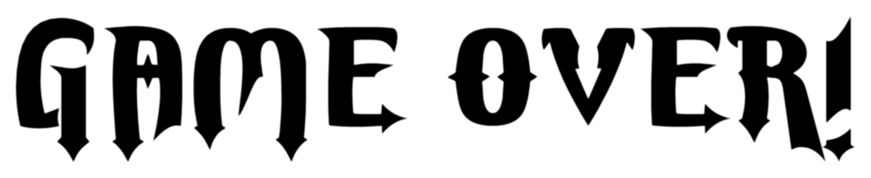
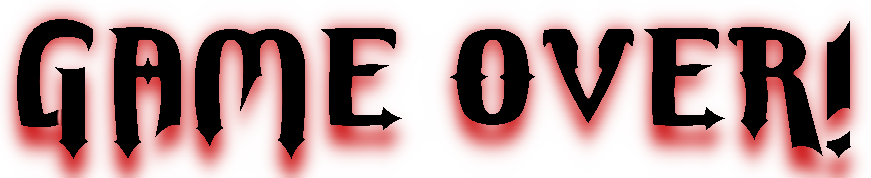
updated assets and bug fix

diff --git a/android/assets/PrototypeMap/completeTileset.tsx b/android/assets/PrototypeMap/completeTileset.tsx
@@ -1,24 +1,4 @@
 <?xml version="1.0" encoding="UTF-8"?>
-<tileset version="1.2" tiledversion="1.3.1" name="2tiles" tilewidth="100" tileheight="100" tilecount="10" columns="5">
- <image source="D:/DocumentsOne/GameArt/Prototype/prototypePngTileset.png" width="500" height="200"/>
- <tile id="0">
-  <properties>
-   <property name="isWall" type="bool" value="false"/>
-  </properties>
- </tile>
- <tile id="1">
-  <properties>
-   <property name="isWall " type="bool" value="true"/>
-  </properties>
- </tile>
- <tile id="2">
-  <properties>
-   <property name="isWall" type="bool" value="false"/>
-  </properties>
- </tile>
- <tile id="5">
-  <properties>
-   <property name="isWall" type="bool" value="true"/>
-  </properties>
- </tile>
+<tileset version="1.2" tiledversion="1.3.1" name="completeTileset" tilewidth="100" tileheight="100" tilecount="10" columns="5">
+ <image source="../CompleteTileset.png" width="500" height="200"/>
 </tileset>

diff --git a/android/assets/completeTileset.tsx b/android/assets/completeTileset.tsx
@@ -23,12 +23,7 @@
  </tile>
  <tile id="6">
   <objectgroup draworder="index" id="2">
-   <object id="1" x="45.0909" y="10.7273">
-    <polygon points="0,0 -11.4545,13.2727 -11.8182,29.2727 -9.45455,30.9091 -22.9091,60.7273 -22.1818,79.2727 33.6364,78.3636 32.7273,60 19.0909,27.8182 21.2727,22 18,3.09091"/>
-   </object>
-   <object id="2" x="50" y="55">
-    <point/>
-   </object>
+   <object id="3" x="2" y="0" width="99" height="99"/>
   </objectgroup>
  </tile>
  <tile id="7">

diff --git a/core/src/com/project/mazegame/screens/GameScreen.java b/core/src/com/project/mazegame/screens/GameScreen.java
@@ -60,7 +60,7 @@ public class GameScreen implements Screen {
     private Texture overlay;
     
     private float timer;
-    private float worldTimer;
+    public float worldTimer;
     
     private Player player2;
     
@@ -70,6 +70,7 @@ public class GameScreen implements Screen {
     private final int EXIT_HEIGHT = 20;
     
     private float initialisedShieldTime;
+    private float initialisedPotionTime;
    
     public static ArrayList<Item> mapItems = new ArrayList<Item>();
 
@@ -77,15 +78,15 @@ public class GameScreen implements Screen {
     
     private int tempMapItemssize;
     
-    int w;
-    int h;
+    int overlayWidth;
+    int overlayHeight;
     
     public GameScreen(MazeGame game) {
         this.game = game;
         inputHandler = new InputHandler();
         
         timer = 0;
-        worldTimer = 50;
+        worldTimer = 60;
 
         tileMap = new TmxMapLoader().load("prototypeMap.tmx");
         tileMapRenderer = new OrthogonalTiledMapRenderer(tileMap);
@@ -114,8 +115,8 @@ public class GameScreen implements Screen {
         damagingPotionTexture = new Texture("Potion3.png");
         overlay = new Texture("circularOverlay.png");
         
-        w = overlay.getWidth();
-        h = overlay.getHeight();
+        overlayWidth = overlay.getWidth();
+        overlayHeight = overlay.getHeight();
     }
     
     @Override
@@ -128,22 +129,14 @@ public class GameScreen implements Screen {
         player.initialPosition();
         
     }
-    
+    int iconSize = 30;
     @Override
     public void render(float delta) { //method repeats a lot
     	updateTime(delta);
     	removeShield();
+    	playerDamaging();
     	
-    	//if timer runs out 
-    	if(worldTimer < 0) {
-    	   w -= 5;
-    	   h -= 5;
-    	  
-    	   if(worldTimer < -5) {
-    		   this.dispose();
-    		   game.setScreen(new EndScreen(this.game));
-    	   }
-    	}
+    
     	
     	//only draw mapItems if one gets picked up
     	if (!(mapItems.size() == tempMapItemssize)) {
@@ -184,9 +177,9 @@ public class GameScreen implements Screen {
 	        }
 		}
 	    
-	    game.batch.draw(overlay,player.position.getX() - w/2,player.position.getY() - h/2 , w ,h);
+	    game.batch.draw(overlay,player.position.getX() - overlayWidth/2,player.position.getY() - overlayHeight/2 , overlayWidth ,overlayHeight);
         
-        int iconSize = 30;
+        
         int buffer = 10;
         Coordinate playerPos = new Coordinate(player.position.getX(), player.position.getY());
         drawIcons(iconSize,buffer,playerPos);
@@ -196,6 +189,18 @@ public class GameScreen implements Screen {
         
         game.batch.end();
         
+    	//if timer runs out 
+    	if(worldTimer < 0) {
+    		overlayWidth -= 15;
+    		overlayHeight -= 15;
+    	  
+    	   if(worldTimer < -3) {
+    		   this.dispose();
+    		   //System.out.println("cam " + cam.cam.position.x + " , " + cam.cam.position.y);
+    		   game.setScreen(new EndScreen(this.game));
+    		   //System.out.println("get here");
+    	   }
+    	}
         
   
  
@@ -209,7 +214,7 @@ public class GameScreen implements Screen {
     
     
     
-    
+    int coinSize = iconSize*2;
     
     
     
@@ -252,7 +257,8 @@ public class GameScreen implements Screen {
         for ( int i = 0; i < player.coins; i ++ ) {
 	        float xCoin = buffer + playerX;
 	        float yCoin = VIEWPORT_HEIGHT - ( iconSize*3) -buffer + playerY;
-	        game.batch.draw(coinTexture, xCoin + (i*10), yCoin,iconSize*2 , iconSize*2);
+	        if ( coinSize != iconSize*2) coinSize -=5;
+	        game.batch.draw(coinTexture, xCoin + (i*10), yCoin, coinSize,coinSize);
         }
     }
     
@@ -318,8 +324,11 @@ public class GameScreen implements Screen {
     private void pickUpItem() {
     	Item item =  co.nearestItem(player);
     	
+    	//System.out.println(player.items);
+    	
     	if (!(player.items.contains(item.getType())) && !(item.getType() == "coin")) {
     		item = co.pickedUp(co.nearestItem(player));
+    		
     		
 			if (item.getType() == "shield") {
 				item.setInitialisedTime(worldTimer);
@@ -330,10 +339,15 @@ public class GameScreen implements Screen {
 				co.sword(item, player, player2);
 			}
 			if (item.getType() == "healingPotion") {
+				player.loadPlayerTextures();
 				co.healingPotion (player);
 			}
 			if (item.getType() == "damagingPotion") {
+				item.setInitialisedTime(worldTimer);
+				initialisedPotionTime = worldTimer;
 				co.damagingPotion(item, player);
+				
+				//System.out.println("posion");
 			}
 			if (item.getType() == "gearEnchantment") {
 				co.gearEnchantment(item , player);
@@ -341,6 +355,7 @@ public class GameScreen implements Screen {
 		} else if (item.getType() == "coin") {
 			mapItems.remove(item);
 			player.coins++;
+			coinSize = 100;
 		}
     }
     
@@ -350,6 +365,16 @@ public class GameScreen implements Screen {
     	}
     	if (initialisedShieldTime - worldTimer == 10) {
     		player.items.remove("shield");
+    	}
+    }
+    
+    private void playerDamaging() {
+    	if(!player.items.contains("damagingPotion")) {
+    		return;
+    	}
+    	if (initialisedPotionTime - worldTimer == 2) {
+    		player.loadPlayerTextures();
+    		player.items.remove("damagingPotion");
     	}
     }
 

diff --git a/core/src/com/project/mazegame/objects/Player.java b/core/src/com/project/mazegame/objects/Player.java
@@ -155,6 +155,14 @@ public class Player {
         sword = new Texture("sword2.png");
         shield = new Texture("shield.png");
     }
+    public void playerPosioned() {
+    	
+        player_up = new Texture("playerRedBackIll.png");
+        player_right = new Texture("playerRedRightIll.png");
+        player_left = new Texture("playerRedLeftIll.png");
+        player_down = new Texture("playerRedFrontIll.png");
+    }
+    
     
     public boolean checkCollisionMap(float possibleX , float possibleY){ // true = good to move | false = can't move there
     	//Overall x and y of player

diff --git a/core/src/com/project/mazegame/screens/EndScreen.java b/core/src/com/project/mazegame/screens/EndScreen.java
@@ -36,9 +36,9 @@ public class EndScreen implements Screen {
         backGround = new Texture("UI\\menuBackground.png");
         title = new Texture("UI//GAMEOVER!.png");
         playButtonActive = new Texture("UI\\BackToMenuButton.png");
-        System.out.println("overwhwlemed");
         playButtonInactive = new Texture ("UI\\backToMenuButtonPressed.png");
         leaderboard = new Texture("UI\\Leaderboard.png");
+        
         bgm = Gdx.audio.newMusic(Gdx.files.internal("sounds\\menuBgm.mp3"));
         bgm.setLooping(true);
         bgm.play();

diff --git a/core/src/com/project/mazegame/tools/Collect.java b/core/src/com/project/mazegame/tools/Collect.java
@@ -128,9 +128,15 @@ public class Collect {
 
 	public void damagingPotion(Item item, Player player1) {
 		ArrayList<String> items = player1.items;
+		
+		
 		player1.decreaseHealth(1);
 		player1.decreaseHealth(1);
-		items.remove("damagingPotion");
+		
+		player1.playerPosioned();
+		
+		//items.remove("damagingPotion");
+		//player1.loadPlayerTextures();
 	}
 
 	public boolean gearEnchantment(Item item, Player player1) {
@@ -141,6 +147,8 @@ public class Collect {
 
 
 	}
+	
+
 
 
 }

diff --git a/core/src/com/project/mazegame/screens/MenuScreen.java b/core/src/com/project/mazegame/screens/MenuScreen.java
@@ -17,7 +17,7 @@ import com.project.mazegame.tools.OrthoCam;
 public class MenuScreen implements Screen {
 
     private MazeGame game;
-    private OrthoCam cam;
+ //   private OrthoCam cam;
     private Music bgm;
 
     /*
